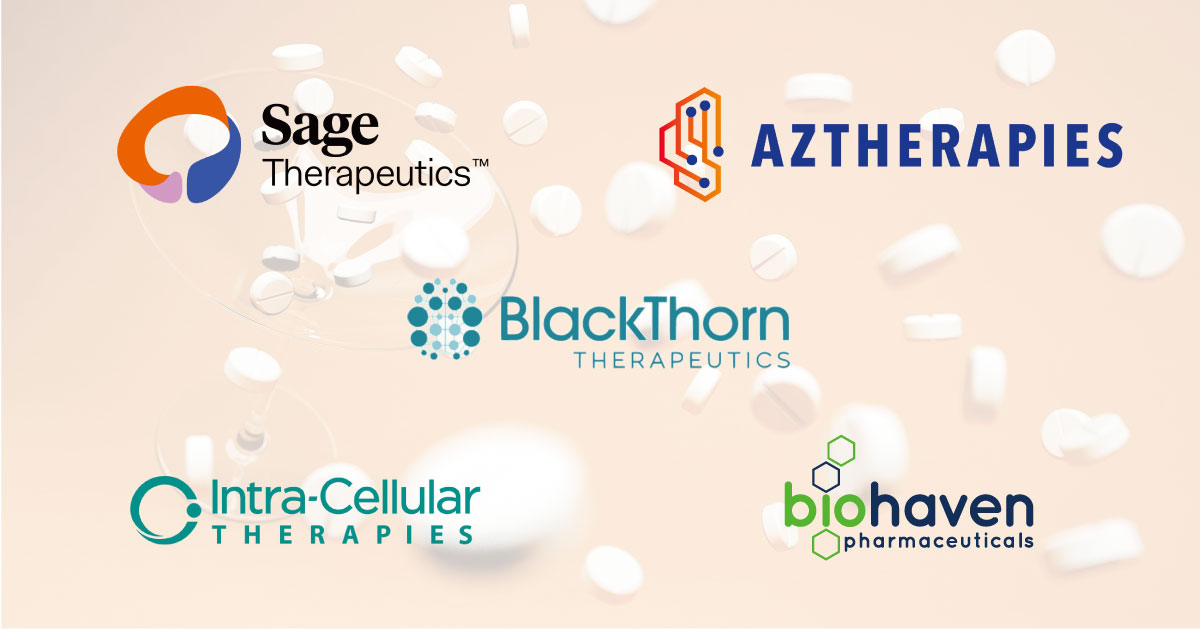
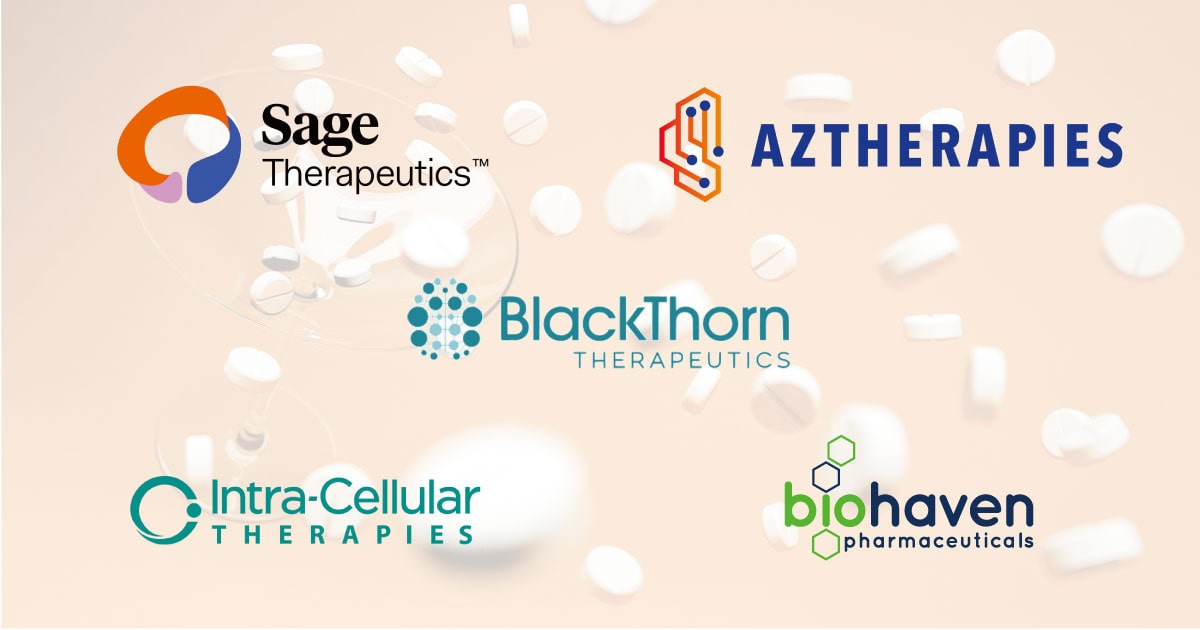
clean: compress jpg image

diff --git a/src/md/jp/blog/castillo-neurosity.md b/src/md/jp/blog/castillo-neurosity.md
@@ -46,7 +46,7 @@ Neurosity は、CEO の[AJ Keller](https://www.linkedin.com/in/andrewjaykeller/)
 
 ## デザイン性と処理能力に強み 「CROWN」
 
-![CROWN](https://neurotechjp.com/img/castillo-neurosity/neurosity-device.png)
+![CROWN](https://neurotechjp.com/img/castillo-neurosity/neurosity-device.jpg)
 
 &nbsp;
 

diff --git a/src/md/en/blog/castillo-neurosity.md b/src/md/en/blog/castillo-neurosity.md
@@ -50,7 +50,7 @@ Although Castillo has been working in the software industry for a long time, **h
 
 ## Strengths of design and processing power "CROWN"
 
-![CROWN](https://neurotechjp.com/img/castillo-neurosity/neurosity-device.png)
+![CROWN](https://neurotechjp.com/img/castillo-neurosity/neurosity-device.jpg)
 
 &nbsp;
 
